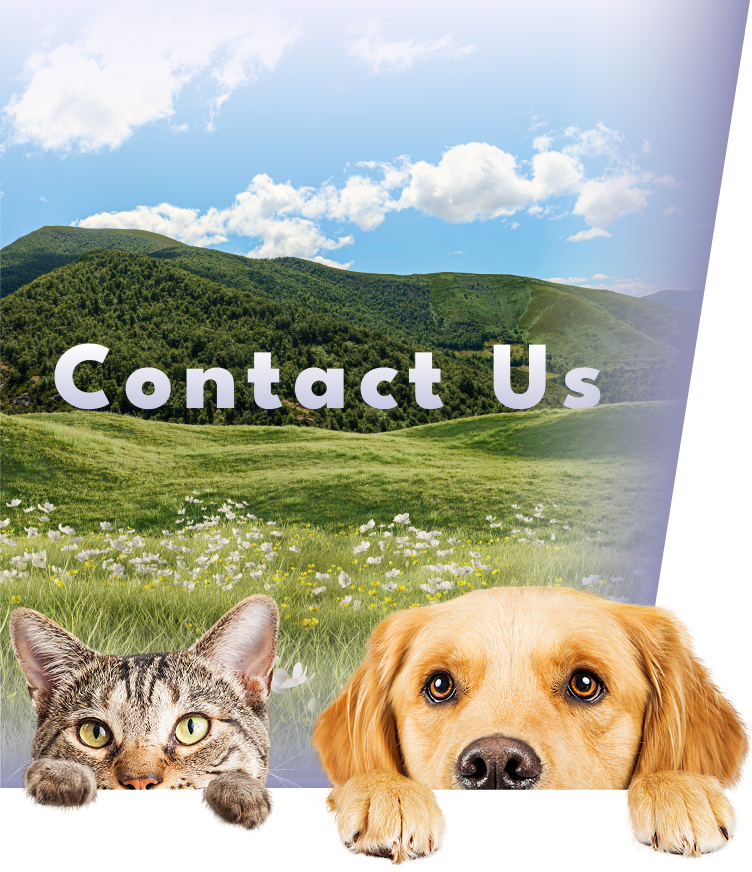
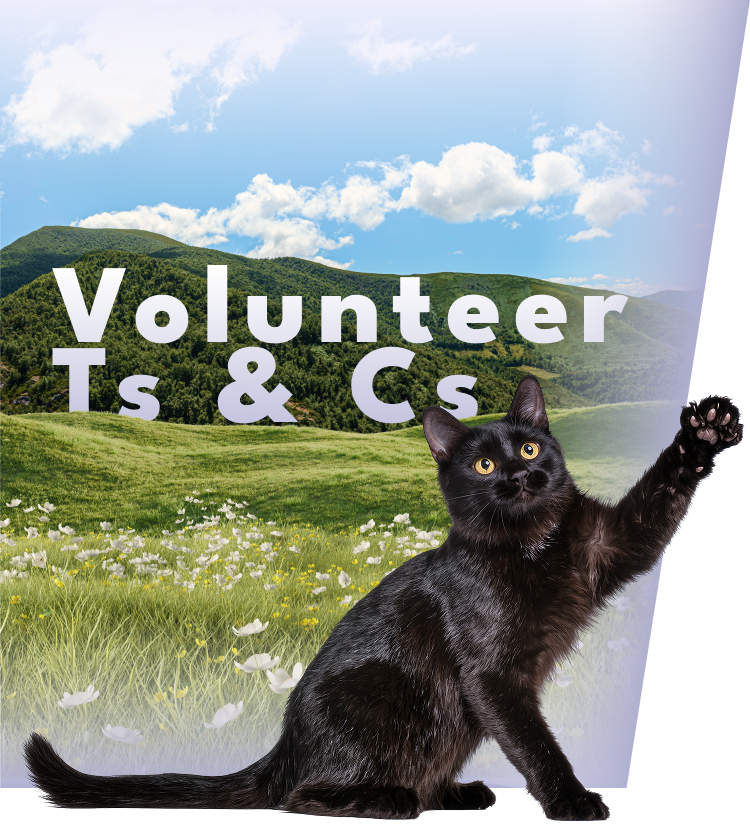
Started development on Staff Dash
staff dash begun development, pages leading from staff dash are yet to be made but main hub frontend and routing done

diff --git a/frontend/src/pages/staff/dashboard.js b/frontend/src/pages/staff/dashboard.js
@@ -1,9 +1,35 @@
-import { Link } from "react-router-dom";
+import { Link, useNavigate } from "react-router-dom";
+import { IoMegaphoneOutline } from "react-icons/io5";
+import { FaHandHoldingHeart } from "react-icons/fa";
+import { FiBell } from "react-icons/fi";
 import StaffNavbar from "../../components/staffNavbar";
 import StaffFooter from "../../components/staffFooter";
 import { getStaffName, clearStaffSession } from "../../utils/staffAuth";
-import { useNavigate } from "react-router-dom";
 import "./staff.css";
+
+const dashboardCards = [
+    {
+        icon: IoMegaphoneOutline,
+        title: "Announcements",
+        text: "Manage what appears on the latest announcements page.",
+        to: "/staff/announcements",
+        label: "Announcements",
+    },
+    {
+        icon: FaHandHoldingHeart,
+        title: "Opportunities",
+        text: "Add opportunities that appear in the volunteer highlights.",
+        to: "/staff/opportunities",
+        label: "Opportunities",
+    },
+    {
+        icon: FiBell,
+        title: "Volunteer Notifications",
+        text: "View recently submitted volunteer registrations",
+        to: "/staff/volunteer-applications",
+        label: "Volunteer Notifications",
+    },
+];
 
 export default function StaffDashboard() {
     const navigate = useNavigate();
@@ -11,18 +37,25 @@ export default function StaffDashboard() {
     return (
         <div className="staffPage">
             <StaffNavbar staffName={getStaffName()} onLogout={() => { clearStaffSession(); navigate("/staff/login"); }} />
-            
+
             <main className="container staffMain">
-                <p className="staffEyebrow">FORA STAFF</p>
-                <h1>Dashboard</h1>
-                <section className="staffCard">
-                    <p>I will get to the dash soonish...</p>
-                    <div className="staffCardActions" style={{ justifyContent: "flex-start" }}>
-                        <Link to="/staff/announcements/new" className="btn btnTeal">Add Announcement</Link>
-                        <Link to="/staff/opportunities/new" className="btn btnTeal">Add Opportunity</Link>
-                    </div>
+                <p className="staffSubHeading">FORA STAFF</p>
+                <h1>Administration Dashboard</h1>
+
+                <section className="staffDashGrid" aria-label="Staff sections">
+                    {dashboardCards.map(({ icon: Icon, title, text, to, label }) => (
+                        <article key={title} className="staffDashCard">
+                            <span className="staffDashIcon"><Icon aria-hidden="true" /></span>
+                            <h2>{title}</h2>
+                            <p>{text}</p>
+                            <Link to={to} className="btn btnTeal staffDashBtn">
+                                <Icon aria-hidden="true" /> {label}
+                            </Link>
+                        </article>
+                    ))}
                 </section>
             </main>
+
             <StaffFooter />
         </div>
     );

diff --git a/frontend/src/pages/staff/manageAnnouncements.js b/frontend/src/pages/staff/manageAnnouncements.js
@@ -1,0 +1,30 @@
+import { Link, useNavigate } from "react-router-dom";
+import StaffNavbar from "../../components/staffNavbar";
+import StaffFooter from "../../components/staffFooter";
+import { getStaffName, clearStaffSession } from "../../utils/staffAuth";
+import "./staff.css";
+
+export default function ManageAnnouncements() {
+    const navigate = useNavigate();
+
+    return (
+        <div className="staffPage">
+            <StaffNavbar staffName={getStaffName()} onLogout={() => { clearStaffSession(); navigate("/staff/login"); }} />
+
+            <main className="container staffMain">
+                <p className="staffSubHeading">FORA STAFF</p>
+                <h1>Announcements</h1>
+
+                <section className="staffCard">
+                    <p>A full list of announcements with edit/delete options is coming soon.</p>
+                    <div className="staffCardActions" style={{ justifyContent: "flex-start" }}>
+                        <Link to="/staff/announcements/new" className="btn btnTeal">Add Announcement</Link>
+                        <Link to="/staff/dashboard" className="btn btnOutline">Back to Dashboard</Link>
+                    </div>
+                </section>
+            </main>
+
+            <StaffFooter />
+        </div>
+    );
+}

diff --git a/frontend/src/pages/staff/manageOpportunities.js b/frontend/src/pages/staff/manageOpportunities.js
@@ -1,0 +1,30 @@
+import { Link, useNavigate } from "react-router-dom";
+import StaffNavbar from "../../components/staffNavbar";
+import StaffFooter from "../../components/staffFooter";
+import { getStaffName, clearStaffSession } from "../../utils/staffAuth";
+import "./staff.css";
+
+export default function ManageOpportunities() {
+    const navigate = useNavigate();
+
+    return (
+        <div className="staffPage">
+            <StaffNavbar staffName={getStaffName()} onLogout={() => { clearStaffSession(); navigate("/staff/login"); }} />
+
+            <main className="container staffMain">
+                <p className="staffSubHeading">FORA STAFF</p>
+                <h1>Opportunities</h1>
+
+                <section className="staffCard">
+                    <p>A full list of opportunities with edit/delete options is coming soon.</p>
+                    <div className="staffCardActions" style={{ justifyContent: "flex-start" }}>
+                        <Link to="/staff/opportunities/new" className="btn btnTeal">Add Opportunity</Link>
+                        <Link to="/staff/dashboard" className="btn btnOutline">Back to Dashboard</Link>
+                    </div>
+                </section>
+            </main>
+
+            <StaffFooter />
+        </div>
+    );
+}

diff --git a/frontend/src/pages/staff/staff.css b/frontend/src/pages/staff/staff.css
@@ -431,6 +431,63 @@ a {
 
 
 
+/* Dashboard cards */
+.staffDashGrid {
+    display: grid;
+    gap: 20px;
+    margin-top: 32px;
+}
+
+.staffDashCard {
+    display: flex;
+    flex-direction: column;
+    align-items: center;
+    text-align: center;
+    gap: 12px;
+    padding: 32px 24px;
+    border-radius: var(--radius);
+    box-shadow: var(--shadow);
+    background: linear-gradient(160deg, var(--white), var(--mint));
+}
+
+.staffDashIcon {
+    display: grid;
+    place-items: center;
+    width: 56px;
+    height: 56px;
+    margin-bottom: 4px;
+    border-radius: 50%;
+    background: #1C9F93;
+    background: radial-gradient(circle, rgba(28, 159, 147, 1) 0%, rgba(8, 84, 76, 1) 100%);
+    color: var(--white);
+    font-size: 1.4rem;
+    box-shadow: var(--greenShadow);
+}
+
+.staffDashCard h2 {
+    color: var(--teal);
+    font-size: 1.1rem;
+    letter-spacing: 0.06em;
+}
+
+.staffDashCard p {
+    margin: 0;
+    line-height: 1.5;
+}
+
+.staffDashBtn {
+    width: 100%;
+    max-width: 280px;
+    margin-top: 8px;
+}
+
+/* Responsiveness: Desktop */
+@media (min-width: 1024px) {
+    .staffDashGrid {
+        grid-template-columns: repeat(3, 1fr);
+    }
+}
+
 /* Responsiveness: Tablet */
 @media (min-width: 834px) {
     .staffFieldRow {

diff --git a/frontend/src/App.js b/frontend/src/App.js
@@ -13,6 +13,9 @@ import StaffDashboard from './pages/staff/dashboard';
 import Announcements from './pages/announcements';
 import RequireStaffAuth from './components/requireStaffAuth';
 import Volunteer from './pages/volunteer';
+import ManageAnnouncements from './pages/staff/manageAnnouncements';
+import ManageOpportunities from './pages/staff/manageOpportunities';
+import VolunteerApplications from './pages/staff/volunteerApplications';
 
 function App() {
   return (
@@ -30,6 +33,9 @@ function App() {
       <Route path="/staff/announcements/:id/edit" element={<RequireStaffAuth><EditAnnouncement /></RequireStaffAuth>} />
       <Route path="/staff/opportunities/new" element={<RequireStaffAuth><AddOpportunity /></RequireStaffAuth>} />
       <Route path="/staff/opportunities/:id/edit" element={<RequireStaffAuth><EditOpportunity /></RequireStaffAuth>} />
+      <Route path="/staff/announcements" element={<RequireStaffAuth><ManageAnnouncements /></RequireStaffAuth>} />
+      <Route path="/staff/opportunities" element={<RequireStaffAuth><ManageOpportunities /></RequireStaffAuth>} />
+      <Route path="/staff/volunteer-applications" element={<RequireStaffAuth><VolunteerApplications /></RequireStaffAuth>} />
     </Routes>
   );
 }

diff --git a/frontend/src/pages/staff/volunteerApplications.js b/frontend/src/pages/staff/volunteerApplications.js
@@ -1,0 +1,29 @@
+import { Link, useNavigate } from "react-router-dom";
+import StaffNavbar from "../../components/staffNavbar";
+import StaffFooter from "../../components/staffFooter";
+import { getStaffName, clearStaffSession } from "../../utils/staffAuth";
+import "./staff.css";
+
+export default function VolunteerApplications() {
+    const navigate = useNavigate();
+
+    return (
+        <div className="staffPage">
+            <StaffNavbar staffName={getStaffName()} onLogout={() => { clearStaffSession(); navigate("/staff/login"); }} />
+
+            <main className="container staffMain">
+                <p className="staffSubHeading">FORA STAFF</p>
+                <h1>Volunteer Notifications</h1>
+
+                <section className="staffCard">
+                    <p>Recently submitted volunteer registrations will appear here soon.</p>
+                    <div className="staffCardActions" style={{ justifyContent: "flex-start" }}>
+                        <Link to="/staff/dashboard" className="btn btnOutline">Back to Dashboard</Link>
+                    </div>
+                </section>
+            </main>
+
+            <StaffFooter />
+        </div>
+    );
+}
